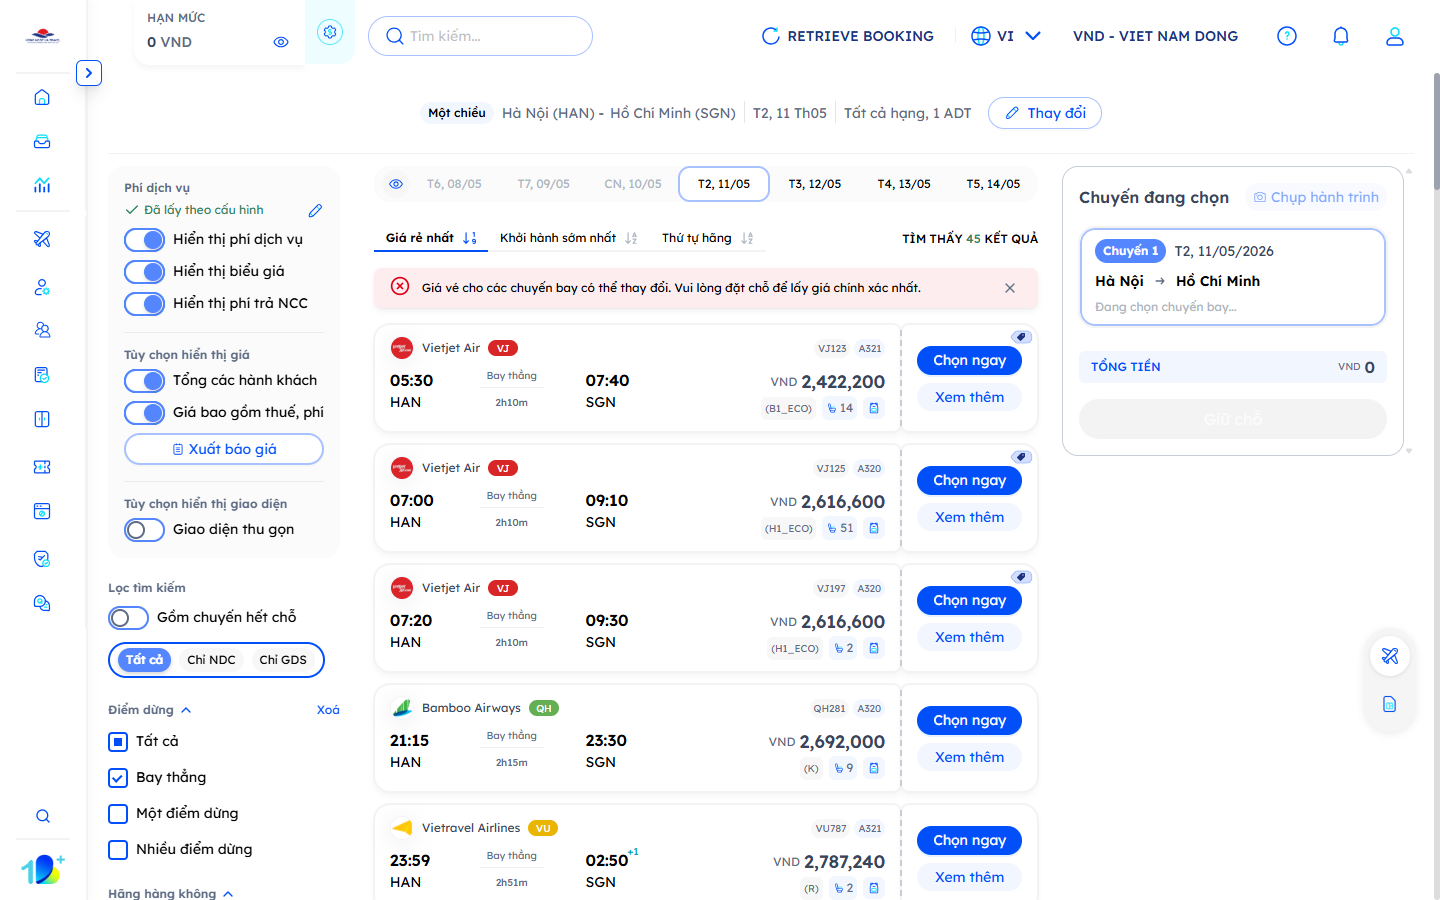
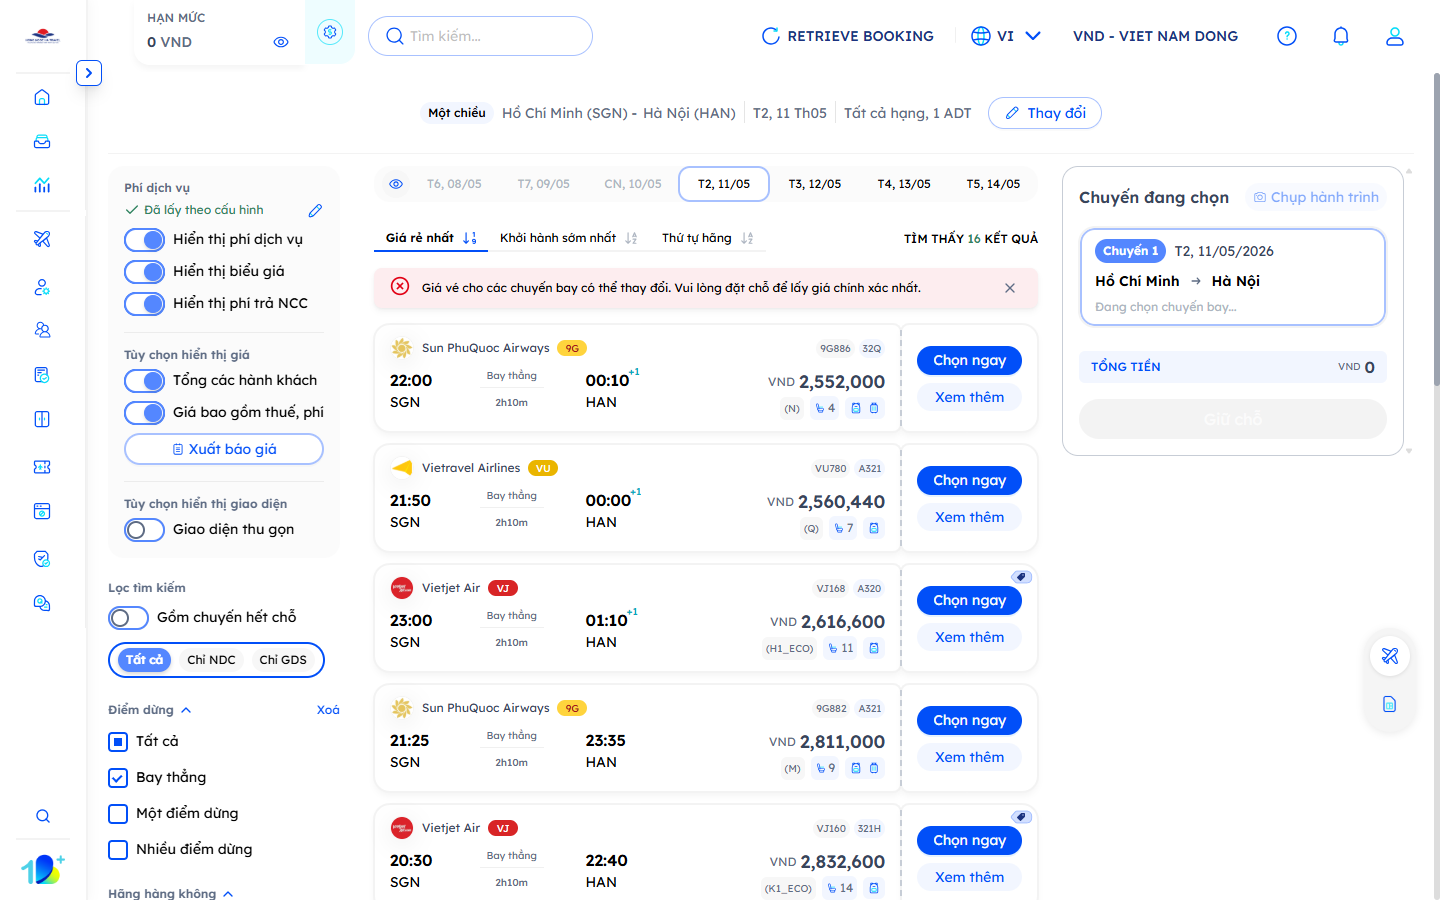
chore(docs): update README.md for more details

diff --git a/tests/test-1booking-auth.ts b/tests/test-1booking-auth.ts
@@ -7,10 +7,10 @@ async function main() {
 
   try {
     const result = await searchFlights(page, {
-      fromAirportCode: 'HAN',
-      fromAirportText: 'Sân bay Nội Bài (HAN)',
-      toAirportCode: 'SGN',
-      toAirportText: 'Sân bay Tân Sơn Nhất (SGN)',
+      fromAirportCode: 'SGN',
+      fromAirportText: 'Sân bay Tân Sơn Nhất (SGN)',
+      toAirportCode: 'HAN',
+      toAirportText: 'Sân bay Nội Bài (HAN)',
     });
 
     console.log(

diff --git a/src/automation/1booking/waiters.ts b/src/automation/1booking/waiters.ts
@@ -28,7 +28,7 @@ export async function waitForLoadingOverlayToDisappear(page: Page) {
 
 export async function waitForFlightResultsReady(page: Page) {
   const flightCards = page.locator('div').filter({
-    hasText: /Bay thẳng|HAN\s*-\s*SGN|SGN\s*-\s*HAN/i,
+    hasText: /Chuyến đang chọn/,
   });
 
   await flightCards.first().waitFor({

diff --git a/README.md b/README.md
@@ -176,16 +176,30 @@ git clone <repo-url>
 cd <project>
 Cài dependencies:
 npm install
-# hoặc pnpm install
+# or pnpm install
+
+---
+
 Chạy backend API:
 npm run start:api
+
+---
+
 Chạy Playwright Worker:
 npm run start:worker
+
+---
+
 Chạy Telegram Bot (nhận request từ nhân viên):
 npm run start:telegram
+
+---
+
 Test Playwright với site demo / 1Booking (cần session login):
 npx tsx scripts/save-auth.ts
 npx tsx scripts/test-1booking-auth.ts
+
+---
 Phần mở rộng (Phase sau MVP)
 Tích hợp Zalo OA để Agent gửi screenshot/lịch trình trực tiếp cho khách.
 Auto Mode: Agent tự search, match, hold mà không cần nhân viên bấm tay (có toggle bật/tắt).
@@ -193,8 +207,11 @@ Dashboard đầy đủ cho quản lý booking case, trạng thái, audit logs.
 Multi-operator và RBAC nếu công ty cần nhiều người quản lý Agent.
 Realtime notifications, analytics, báo cáo.
 Vector DB / RAG nếu muốn Agent học rules nghiệp vụ hoặc FAQ hãng bay.
+
+---
+
 Ghi chú quan trọng
 MVP chỉ dùng Telegram làm kênh nội bộ.
 Zalo cá nhân vẫn giữ cho khách cũ, Agent không auto gửi cho khách trong MVP.
 1Booking không có public API, Playwright là cách duy nhất để automation trong MVP.
-Session/state Playwright nên lưu sau login thủ công để tránh login lại nhiều lần.
+Session/state Playwright lưu auth-state sau login thủ công để tránh login lại nhiều lần. (npx tsx scripts/save-auth.ts)
